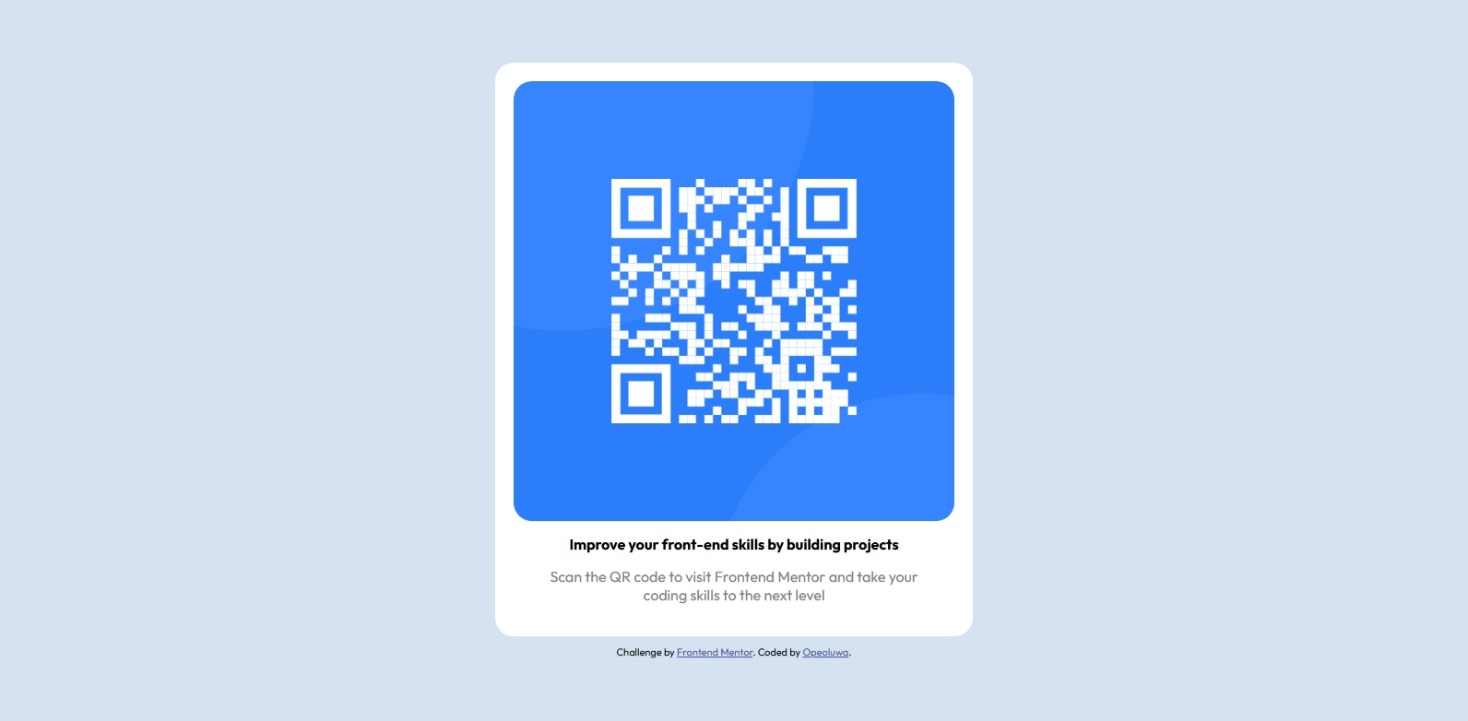
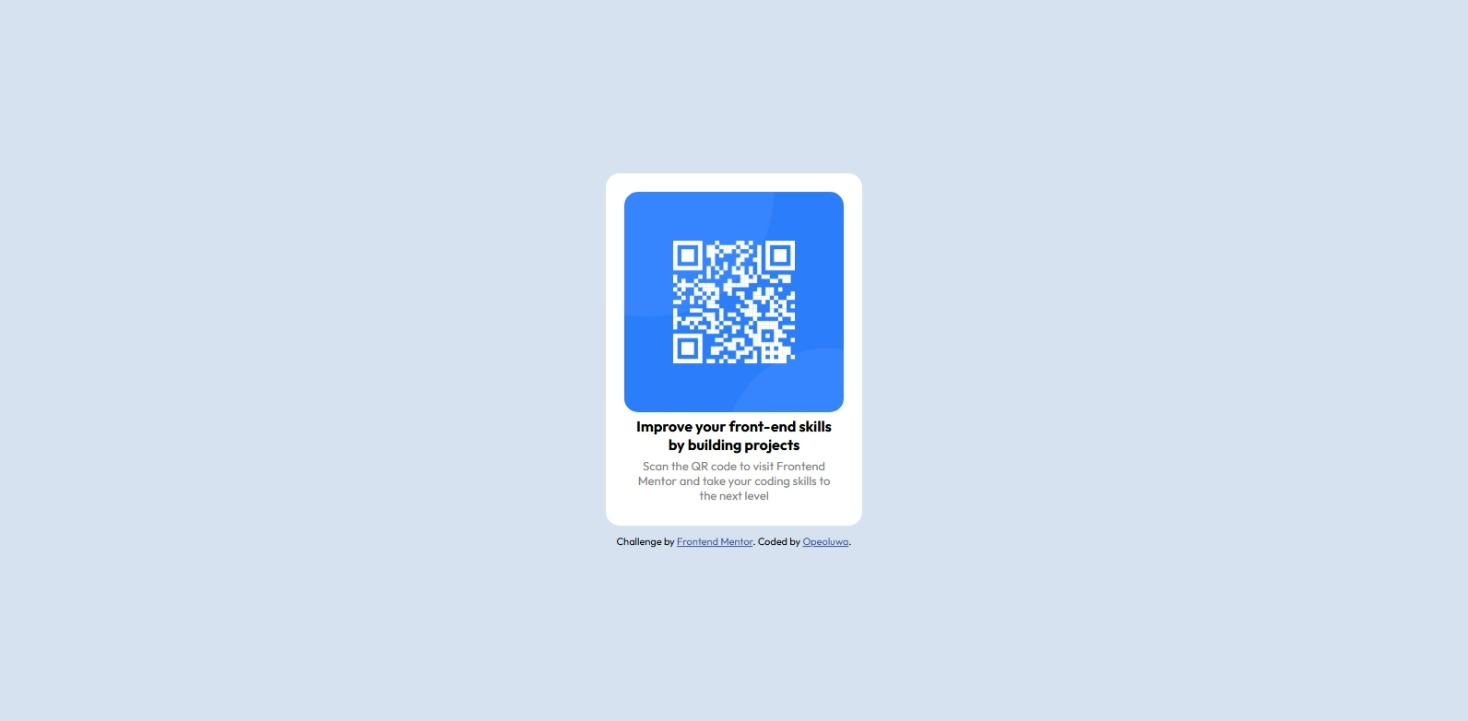
updated readme

Changed region(s): [[0.3372, 0.061, 0.6744, 0.9154]]

diff --git a/qr-code-component-main/qr-code-component-main/index.html b/qr-code-component-main/qr-code-component-main/index.html
@@ -34,23 +34,23 @@
     </style>
   </head>
   <body>
-    <div class="card">
+    <main class="card">
       <img src="./images/image-qr-code.png" alt="" />
       <div>
-        <p class="improve">
+        <h1>
           Improve your front-end skills by building projects
-        </p>
+        </h1>
 
-        <p class="scan">
+        <p>
           Scan the QR code to visit Frontend Mentor and take your coding skills
           to the next level
         </p>
       </div>
-    </div>
+    </main>
 
-    <div class="attribution">
+    <footer class="attribution">
       Challenge by
       <a href="https://www.frontendmentor.io?ref=challenge" target="_blank">Frontend Mentor</a>. Coded by <a href="#">Opeoluwa</a>.
-    </div>
+    </footer>
   </body>
 </html>

diff --git a/qr-code-component-main/qr-code-component-main/style.css b/qr-code-component-main/qr-code-component-main/style.css
@@ -10,28 +10,31 @@ body {
     margin: 0;
 }
 
-.card {
-    width: 30%;
+main {
+    width: 15%;
     background-color: white;
     padding: 20px;
     display: flex;
     flex-direction: column;
-    border-radius: 20px;
+    border-radius: 15px;
 }
 
-.card img {
-    border-radius: 20px;
+main img {
+    border-radius: 15px;
+    
 }
 
-.improve {
+h1 {
+    font-size: medium;
     font-weight: 700;
     text-align: center;
-    margin: 15px;
+    margin: 5px;
 }
 
-.scan {
+p {
+    font-size: small;
     font-weight: 400;
     text-align: center;
-    margin: 15px;
+    margin: 5px;
     color: gray;
 }

diff --git a/qr-code-component-main/qr-code-component-main/README.md b/qr-code-component-main/qr-code-component-main/README.md
@@ -23,8 +23,7 @@ This is a solution to the [QR code component challenge on Frontend Mentor](https
 
 ### Links
 
-- Solution URL: [Add solution URL here](https://your-solution-url.com)
-- Live Site URL: [Add live site URL here](https://your-live-site-url.com)
+- Solution URL: [https://github.com/memesofting/fe-mentor-projects/blob/master/qr-code-component-main/qr-code-component-main/index.html]
 
 ## My process
 
@@ -33,61 +32,8 @@ This is a solution to the [QR code component challenge on Frontend Mentor](https
 - Semantic HTML5 markup
 - CSS custom properties
 - Flexbox
-- CSS Grid
-- Mobile-first workflow
-- [React](https://reactjs.org/) - JS library
-- [Next.js](https://nextjs.org/) - React framework
-- [Styled Components](https://styled-components.com/) - For styles
-
-**Note: These are just examples. Delete this note and replace the list above with your own choices**
-
-### What I learned
-
-Use this section to recap over some of your major learnings while working through this project. Writing these out and providing code samples of areas you want to highlight is a great way to reinforce your own knowledge.
-
-To see how you can add code snippets, see below:
-
-```html
-<h1>Some HTML code I'm proud of</h1>
-```
-```css
-.proud-of-this-css {
-  color: papayawhip;
-}
-```
-```js
-const proudOfThisFunc = () => {
-  console.log('🎉')
-}
-```
-
-If you want more help with writing markdown, we'd recommend checking out [The Markdown Guide](https://www.markdownguide.org/) to learn more.
-
-**Note: Delete this note and the content within this section and replace with your own learnings.**
-
-### Continued development
-
-Use this section to outline areas that you want to continue focusing on in future projects. These could be concepts you're still not completely comfortable with or techniques you found useful that you want to refine and perfect.
-
-**Note: Delete this note and the content within this section and replace with your own plans for continued development.**
-
-### Useful resources
-
-- [Example resource 1](https://www.example.com) - This helped me for XYZ reason. I really liked this pattern and will use it going forward.
-- [Example resource 2](https://www.example.com) - This is an amazing article which helped me finally understand XYZ. I'd recommend it to anyone still learning this concept.
-
-**Note: Delete this note and replace the list above with resources that helped you during the challenge. These could come in handy for anyone viewing your solution or for yourself when you look back on this project in the future.**
 
 ## Author
 
 - Website - [Add your name here](https://www.your-site.com)
-- Frontend Mentor - [@yourusername](https://www.frontendmentor.io/profile/yourusername)
-- Twitter - [@yourusername](https://www.twitter.com/yourusername)
-
-**Note: Delete this note and add/remove/edit lines above based on what links you'd like to share.**
-
-## Acknowledgments
-
-This is where you can give a hat tip to anyone who helped you out on this project. Perhaps you worked in a team or got some inspiration from someone else's solution. This is the perfect place to give them some credit.
-
-**Note: Delete this note and edit this section's content as necessary. If you completed this challenge by yourself, feel free to delete this section entirely.**
+- Frontend Mentor - [@memesofting](https://www.frontendmentor.io/profile/memesofting)
